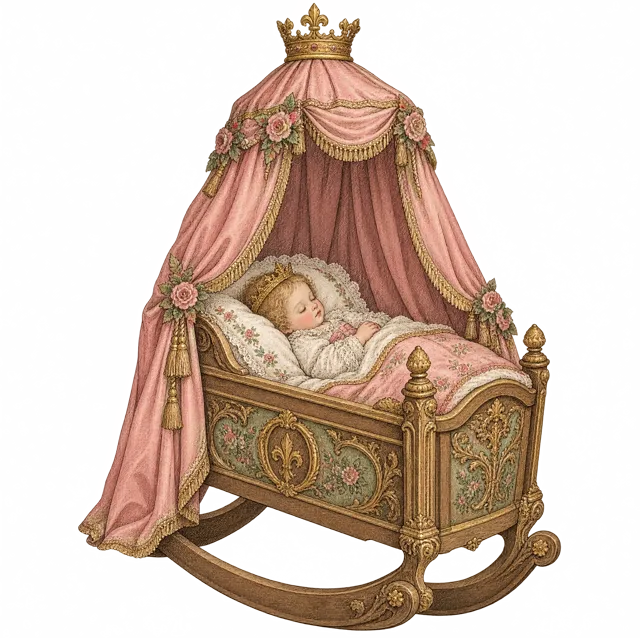
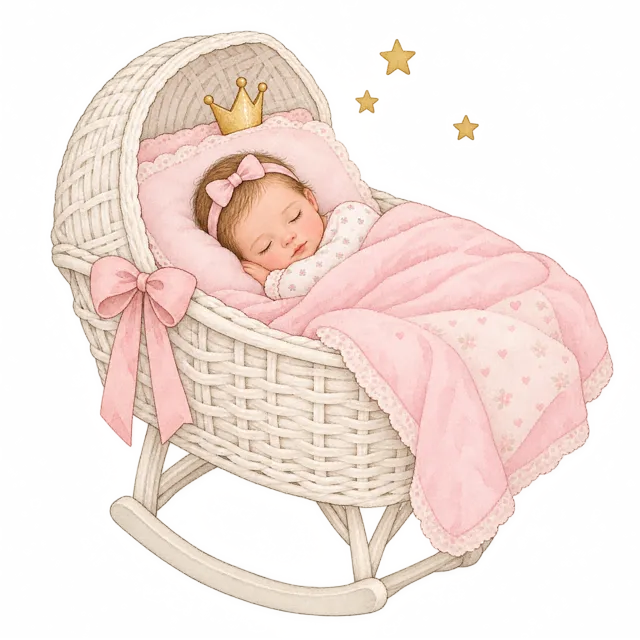
Bila jednom: a happy pastel princess book instead of a royal one
Pink cloth cover with a rose wreath, cream pages with flowers in the
corners, a sunny flower garden behind the book, drifting petals, and the
original pastel illustrations. Pink, beige, white and sage only; the
burgundy leather, dark library and parchment are gone.

diff --git a/src/styles/tale.css b/src/styles/tale.css
@@ -1,141 +1,134 @@
-/* Bila jednom · premium first birthday told as a royal storybook: a leather-bound book whose paper pages bend and turn */
-.tl{--tl-bg:var(--a-tllib);--tl-leather:var(--a-tlleather);--gold:#B58A3E;--gold2:#E7CB86;--wine:#7C1E2D;--ink:#3E2B1E;--rose:#8E3346;position:relative;min-height:100svh;display:flex;flex-direction:column;align-items:center;justify-content:center;gap:14px;padding:66px 0 24px;box-sizing:border-box;overflow:hidden;color:var(--ink);font-family:'Cormorant Garamond',serif;
- background:radial-gradient(60% 46% at 50% 44%,rgba(255,196,120,.22),transparent 70%),radial-gradient(130% 100% at 50% 40%,transparent 40%,rgba(0,0,0,.75)),var(--tl-bg,none) center/cover no-repeat,repeating-linear-gradient(45deg,rgba(255,255,255,.018) 0 2px,transparent 2px 9px),#2A0E14}
+/* Bila jednom · premium first birthday told as a happy princess storybook: a pink cloth book whose paper pages bend and turn */
+.tl{--rose:#C46A7C;--rose2:#E8A9B4;--blush:#F8E3E3;--sage:#7E9A76;--gold:#B8904E;--ink:#5B4636;--cream:#FFFAF1;position:relative;min-height:100svh;display:flex;flex-direction:column;align-items:center;justify-content:center;gap:14px;padding:66px 0 24px;box-sizing:border-box;overflow:hidden;color:var(--ink);font-family:'Cormorant Garamond',serif;
+ background:radial-gradient(70% 50% at 50% 46%,rgba(255,252,246,.55),transparent 75%),var(--a-tlgarden) center/cover no-repeat,#F7EDE8}
 .view:has(> .tl){transform:none!important;animation:none!important;opacity:1!important}
 .tl .vx-top{position:absolute;top:12px;right:12px;z-index:61}
 .tl.pv{min-height:100svh}
-.tl-hi{margin:0 0 6px;font:600 12px 'Cinzel',serif;letter-spacing:.3em;text-transform:uppercase;color:var(--gold2);text-align:center;padding:0 16px;text-shadow:0 2px 8px rgba(0,0,0,.7);transition:opacity .5s ease}
+.tl-hi{margin:0 0 6px;padding:7px 16px;border-radius:999px;background:rgba(255,250,241,.82);font:600 12px 'Cinzel',serif;letter-spacing:.26em;text-transform:uppercase;color:var(--rose);text-align:center;transition:opacity .5s ease}
 .tl.on .tl-hi{opacity:0}
 .tl-sp{position:absolute;inset:0;pointer-events:none}
-.tl-sp i{position:absolute;width:var(--s);aspect-ratio:1;background:radial-gradient(circle,#fff3cf 0 18%,rgba(230,190,110,.55) 34%,transparent 70%);animation:twk var(--t) ease-in-out var(--d) infinite}
+.tl-sp i{position:absolute;width:var(--s);aspect-ratio:1;background:radial-gradient(circle,#fff 0 18%,rgba(255,215,160,.7) 34%,transparent 70%);animation:twk var(--t) ease-in-out var(--d) infinite}
+/* little petals drift down over the garden */
+.tl-sp i:nth-child(3n){width:calc(var(--s) * 1.3);aspect-ratio:1.3;border-radius:60% 0 60% 0;background:linear-gradient(135deg,#FBD3DA,#E8A9B4);opacity:.85;animation:tlPetal calc(var(--t) * 4) linear var(--d) infinite}
+@keyframes tlPetal{from{transform:translate(0,-20vh) rotate(0)}to{transform:translate(8vw,110vh) rotate(540deg)}}
 
 /* ---------- the book ---------- */
 .tl-book{position:relative;flex:none;max-width:100%;translate:var(--sx,0) 0;transition:translate .9s cubic-bezier(.4,0,.2,1);-webkit-tap-highlight-color:transparent}
-.tl.atcov .tl-book{--sx:0px}
 @media (min-width:900px){.tl.atcov .tl-book{--sx:calc(var(--pw) * -.5)}.tl.atend .tl-book{--sx:calc(var(--pw) * .5)}}
 .tl:not(.on) .tl-book{animation:tlIdle 4.6s ease-in-out infinite alternate}
 @keyframes tlIdle{to{transform:translateY(-8px)}}
+.tl-book::before{content:"";position:absolute;left:5%;right:5%;bottom:-2%;height:10%;border-radius:50%;background:rgba(110,70,60,.35);filter:blur(20px);pointer-events:none}
 .tl .stf__wrapper{position:relative;width:100%}
-/* the shadow under the book is its own layer, so turning pages never repaints it */
-.tl-book::before{content:"";position:absolute;left:4%;right:4%;bottom:-2%;height:12%;border-radius:50%;background:rgba(0,0,0,.6);filter:blur(22px);pointer-events:none}
 .tl-p{overflow:hidden;container-type:inline-size;box-sizing:border-box}
-.tl-pp{background:radial-gradient(130% 110% at 50% 50%,transparent 55%,rgba(120,80,30,.28)),radial-gradient(circle at 18% 22%,rgba(150,100,40,.10) 0 2%,transparent 6%),radial-gradient(circle at 82% 74%,rgba(150,100,40,.09) 0 3%,transparent 8%),radial-gradient(circle at 70% 12%,rgba(150,100,40,.07) 0 1.5%,transparent 5%),var(--a-tlparch) center/100% 100%,#F1E3C4}
-/* the gutter: paper darkens toward the spine */
-.tl-pp.rt{box-shadow:inset 18px 0 26px -16px rgba(70,40,15,.5)}
-.tl-pp.lf{box-shadow:inset -18px 0 26px -16px rgba(70,40,15,.5)}
-.tl-pp::after{content:"";position:absolute;inset:0;pointer-events:none;background:linear-gradient(0deg,rgba(255,255,255,.0),rgba(255,248,230,.18))}
+.tl-pp{background:radial-gradient(120% 100% at 50% 45%,transparent 60%,rgba(232,169,180,.16)),var(--a-tlpaper) center/cover,var(--cream)}
+.tl-pp.rt{box-shadow:inset 16px 0 22px -16px rgba(120,80,60,.35)}
+.tl-pp.lf{box-shadow:inset -16px 0 22px -16px rgba(120,80,60,.35)}
 
-/* ---------- the covers: burgundy leather with gold tooling ---------- */
-.tl-cov,.tl-back{background:radial-gradient(90% 70% at 40% 35%,rgba(255,255,255,.10),transparent 60%),radial-gradient(130% 110% at 50% 50%,transparent 55%,rgba(0,0,0,.45)),var(--tl-leather,none) center/cover,repeating-radial-gradient(circle at 30% 40%,rgba(0,0,0,.05) 0 1px,transparent 1px 3px),#6E1826;box-shadow:inset 0 0 0 1px rgba(0,0,0,.4)}
-.tl-cov{border-radius:0 1.6cqw 1.6cqw 0;box-shadow:inset 7px 0 10px -4px rgba(0,0,0,.6),inset 11px 0 0 -9px rgba(231,203,134,.35)}
-.tl-back{border-radius:1.6cqw 0 0 1.6cqw;box-shadow:inset -7px 0 10px -4px rgba(0,0,0,.6)}
-.tl-cvi{position:absolute;inset:0;display:flex;flex-direction:column;align-items:center;justify-content:center;text-align:center;padding:14cqw 12cqw;box-sizing:border-box}
-.tl-cvi::before{content:"";position:absolute;inset:6cqw;border:.7cqw double var(--gold2);border-radius:1cqw;opacity:.85;pointer-events:none}
-.tl-cvi::after{content:"";position:absolute;inset:8.4cqw;border:.25cqw solid rgba(231,203,134,.55);border-radius:.6cqw;pointer-events:none}
-.tl-cvi>svg{width:20cqw;margin-bottom:3cqw;filter:drop-shadow(0 .4cqw .3cqw rgba(0,0,0,.45))}
-.tl-back .tl-cvi>svg{width:14cqw;opacity:.85}
-.tl-gold{background:linear-gradient(170deg,#F8E7B0,#D7AE5E 40%,#9C7130 58%,#EDD08E 78%,#C69A4E);background-size:220% 100%;-webkit-background-clip:text;background-clip:text;color:transparent!important;filter:drop-shadow(0 .35cqw .25cqw rgba(0,0,0,.45))}
-.tl-ct{margin:0;font:400 11cqw/1.02 'Cinzel Decorative',serif}
-.tl-cl{display:block;width:40cqw;margin:2.6cqw 0;color:var(--gold2)}
+/* ---------- the covers: pink cloth with a rose wreath ---------- */
+.tl-cov{background:var(--a-tlcovp) center/100% 100% no-repeat,#EDBFC3;border-radius:0 1.6cqw 1.6cqw 0;box-shadow:inset 6px 0 9px -4px rgba(120,60,60,.35),inset 10px 0 0 -8px rgba(255,255,255,.5)}
+.tl-back{background:var(--a-tlbackp) center/100% 100% no-repeat,#EDBFC3;border-radius:1.6cqw 0 0 1.6cqw;box-shadow:inset -6px 0 9px -4px rgba(120,60,60,.35)}
+.tl-cvi{position:absolute;left:50%;top:50%;translate:-50% -50%;width:50cqw;display:flex;flex-direction:column;align-items:center;text-align:center}
+.tl-gold{background:linear-gradient(170deg,#E9C98A,#C69A56 45%,#A97E3E 62%,#DDB876);background-size:220% 100%;-webkit-background-clip:text;background-clip:text;color:transparent!important}
+.tl-ct{margin:0;font:400 7.6cqw/1.05 'Cinzel Decorative',serif;color:var(--rose)}
+.tl-cl{display:block;width:30cqw;margin:2cqw 0;color:var(--gold)}
 .tl-cl svg{display:block;width:100%}
-.tl-cs{margin:0;font:400 8.4cqw/1.1 'Pinyon Script',cursive;color:#F4E2C2;text-shadow:0 .4cqw .8cqw rgba(0,0,0,.5)}
-.tl-cn{margin:4cqw 0 0;font:700 10.5cqw/1.05 'Cinzel Decorative',serif}
-.tl-cb{margin:5cqw 0 0;font:600 3cqw/1.3 'Cinzel',serif;letter-spacing:.24em;text-transform:uppercase;color:#E9D3A4}
+.tl-cs{margin:0;font:400 6.4cqw/1.1 'Great Vibes',cursive;color:var(--sage)}
+.tl-cn{margin:2.4cqw 0 0;font:400 12cqw/1 'Great Vibes',cursive;color:var(--rose)}
+.tl-cb{max-width:24cqw;margin:2.6cqw 0 0;font:600 2.2cqw/1.45 'Cinzel',serif;letter-spacing:.12em;text-transform:uppercase;color:#9C8464}
 .tl:not(.on) .tl-cov .tl-gold{animation:tlFoil 4s ease-in-out infinite}
 @keyframes tlFoil{50%{background-position:100% 0}}
 
-/* ---------- endpaper ---------- */
-/* the inside cover matches the invitation card: cream paper, a rose wreath with a pink bow, and the owner's name inside */
-.tl-endp{background:var(--a-tlwreath) center/100% 100% no-repeat,#FBF5E8;box-shadow:inset -18px 0 26px -16px rgba(90,60,30,.35)}
+/* ---------- inside cover: the rose wreath with the owner's name ---------- */
+.tl-endp{background:var(--a-tlwreath) center/100% 100% no-repeat,#FBF5E8;box-shadow:inset -16px 0 22px -16px rgba(120,80,60,.3)}
 .tl-plate{position:absolute;left:50%;top:51%;translate:-50% -50%;width:44cqw;text-align:center}
-.tl-plate small{display:block;font:600 2.9cqw/1.4 'Cinzel',serif;letter-spacing:.2em;text-transform:uppercase;color:#A8803F}
-.tl-plate b{display:block;margin:2.4cqw 0 1.6cqw;font:400 11.5cqw/1.05 'Pinyon Script',cursive;color:#9A4A58}
-.tl-plate span{display:block;width:26cqw;margin:0 auto;color:#B88A4A}
+.tl-plate small{display:block;font:600 2.9cqw/1.4 'Cinzel',serif;letter-spacing:.2em;text-transform:uppercase;color:var(--gold)}
+.tl-plate b{display:block;margin:2.4cqw 0 1.6cqw;font:400 11.5cqw/1.05 'Great Vibes',cursive;color:var(--rose)}
+.tl-plate span{display:block;width:26cqw;margin:0 auto;color:var(--gold)}
 
-/* ---------- gold frame with corner flourishes ---------- */
-.tl-fr{position:absolute;inset:4.2cqw;border:.25cqw solid rgba(181,138,62,.7);pointer-events:none;color:var(--gold)}
-.tl-fr::before{content:"";position:absolute;inset:1.3cqw;border:.12cqw solid rgba(181,138,62,.5)}
-.tl-fr i{position:absolute;width:13cqw;height:13cqw}
-.tl-fr i svg{display:block;width:100%;height:100%}
-.tl-fr .c0{left:-1.4cqw;top:-1.4cqw}.tl-fr .c1{right:-1.4cqw;top:-1.4cqw;transform:scaleX(-1)}.tl-fr .c2{left:-1.4cqw;bottom:-1.4cqw;transform:scaleY(-1)}.tl-fr .c3{right:-1.4cqw;bottom:-1.4cqw;transform:scale(-1)}
+/* ---------- page frame with flowers in the corners ---------- */
+.tl-fr{position:absolute;inset:4.4cqw;border:.22cqw solid rgba(196,106,124,.38);border-radius:2cqw;pointer-events:none}
+.tl-fr::before{content:"";position:absolute;inset:1.2cqw;border:.12cqw solid rgba(126,154,118,.35);border-radius:1.4cqw}
+.tl-fr i{position:absolute;width:24cqw;height:24cqw;background:var(--a-tlflor) 0 0/contain no-repeat}
+.tl-fr i svg{display:none}
+.tl-fr .c0{left:-3cqw;top:-3cqw}.tl-fr .c1{right:-3cqw;top:-3cqw;transform:scaleX(-1)}.tl-fr .c2{left:-3cqw;bottom:-3cqw;transform:scaleY(-1)}.tl-fr .c3{right:-3cqw;bottom:-3cqw;transform:scale(-1)}
 
 /* ---------- inside pages ---------- */
-.tl-pg{position:absolute;inset:0;display:flex;flex-direction:column;align-items:center;justify-content:center;gap:1.6cqw;padding:12cqw 12cqw 14cqw;box-sizing:border-box;text-align:center;overflow-y:auto;overscroll-behavior:contain;scrollbar-width:none}
+.tl-pg{position:absolute;inset:0;display:flex;flex-direction:column;align-items:center;justify-content:center;gap:1.6cqw;padding:13cqw 12cqw 14cqw;box-sizing:border-box;text-align:center;overflow-y:auto;overscroll-behavior:contain;scrollbar-width:none}
 .tl-pg::-webkit-scrollbar{display:none}
-.tl-lab{display:flex;align-items:center;gap:2.6cqw;margin:0;font:600 3.1cqw/1.2 'Cinzel',serif;letter-spacing:.2em;text-transform:uppercase;color:var(--gold)}
-.tl-lab::before,.tl-lab::after{content:"❦";font-size:3.4cqw;letter-spacing:0;color:var(--wine);opacity:.7}
-.tl-lab::before{transform:scaleX(-1)}
-/* the pictures are printed onto the old paper */
-.tl-art{display:block;flex:none;width:56cqw;aspect-ratio:1;background:var(--i) center/contain no-repeat;filter:sepia(.12) saturate(.92)}
+.tl-lab{display:flex;align-items:center;gap:2.4cqw;margin:0;font:600 3.1cqw/1.2 'Cinzel',serif;letter-spacing:.2em;text-transform:uppercase;color:var(--gold)}
+.tl-lab::before,.tl-lab::after{content:"✿";font-size:3.4cqw;letter-spacing:0;color:var(--rose2)}
+.tl-art{display:block;flex:none;width:54cqw;aspect-ratio:1;background:var(--i) center/contain no-repeat}
 .tl-art.sm{width:44cqw}.tl-art.wide{width:66cqw;aspect-ratio:4/3}
-.tl-ph{flex:none;margin:1cqw 0;width:48cqw;aspect-ratio:.8;border-radius:50%;overflow:hidden;border:1.4cqw solid #F6EBD2;box-shadow:0 0 0 .55cqw var(--gold),0 0 0 1.3cqw #F6EBD2,0 0 0 1.6cqw rgba(181,138,62,.6),0 3cqw 5cqw -2cqw rgba(70,40,15,.5)}
-.tl-ph img{width:100%;height:100%;object-fit:cover;display:block;filter:sepia(.3) contrast(1.05)}
-.tl-h{margin:0;font:400 10.6cqw/1.1 'Pinyon Script',cursive;color:var(--wine)}
+.tl-ph{flex:none;margin:1cqw 0;width:48cqw;aspect-ratio:.8;border-radius:50%;overflow:hidden;border:1.4cqw solid #fff;box-shadow:0 0 0 .5cqw var(--rose2),0 0 0 1.2cqw #fff,0 0 0 1.45cqw rgba(126,154,118,.55),0 3cqw 5cqw -2cqw rgba(120,80,60,.35)}
+.tl-ph img{width:100%;height:100%;object-fit:cover;display:block}
+.tl-h{margin:0;font:400 10.6cqw/1.1 'Great Vibes',cursive;color:var(--rose)}
 .tl-tx{margin:0;font:italic 500 5.2cqw/1.45 'Cormorant Garamond',serif;color:var(--ink)}
-.tl-tx b{font-style:normal;font-weight:700;color:var(--wine)}
-/* an illuminated first letter, like in old manuscripts */
+.tl-tx b{font-style:normal;font-weight:700;color:var(--rose)}
+/* a big flowery first letter */
 .tl-dc{text-align:left}
-.tl-dc::first-letter{float:left;margin:1cqw 2.4cqw 0 0;padding:1.6cqw 2.2cqw 1cqw;font:400 12cqw/.82 'Cinzel Decorative',serif;font-style:normal;color:#F6E3A6;background:radial-gradient(circle at 30% 30%,#A23347,#6A1626);border:.5cqw solid var(--gold);outline:.2cqw solid var(--gold2);outline-offset:-1.3cqw;text-shadow:0 .3cqw .3cqw rgba(0,0,0,.4)}
-.tl-born{display:flex;flex-direction:column;gap:1cqw;margin-top:2cqw;padding:3cqw 7cqw;border:.3cqw solid rgba(181,138,62,.75);outline:.15cqw solid rgba(181,138,62,.5);outline-offset:-1.2cqw;background:rgba(255,250,236,.45)}
-.tl-born small{font:600 2.8cqw/1.2 'Cinzel',serif;letter-spacing:.18em;text-transform:uppercase;color:var(--gold)}
+.tl-dc::first-letter{float:left;margin:.6cqw 2.4cqw 0 0;padding:2cqw 2.4cqw 1.2cqw;font:400 11cqw/.82 'Cinzel Decorative',serif;font-style:normal;color:var(--rose);background:radial-gradient(circle,#FFF 30%,#FBE3E6 70%);border:.35cqw solid var(--rose2);border-radius:2cqw}
+.tl-born{display:flex;flex-direction:column;gap:1cqw;margin-top:2cqw;padding:3cqw 7cqw;border-radius:6cqw;border:.3cqw solid var(--rose2);background:rgba(255,255,255,.65)}
+.tl-born small{font:600 2.8cqw/1.2 'Cinzel',serif;letter-spacing:.18em;text-transform:uppercase;color:var(--sage)}
 .tl-born b{font:600 4.8cqw/1.2 'Cormorant Garamond',serif;color:var(--ink)}
-.tl-no{position:absolute;left:0;right:0;bottom:6.2cqw;display:flex;justify-content:center;align-items:center;gap:2cqw;font:600 3cqw/1 'Cinzel',serif;color:var(--gold)}
-.tl-no::before,.tl-no::after{content:"";width:5cqw;height:.18cqw;background:currentColor;opacity:.55}
+.tl-no{position:absolute;left:0;right:0;bottom:6.2cqw;display:flex;justify-content:center;align-items:center;gap:2cqw;font:600 3cqw/1 'Cinzel',serif;color:var(--rose)}
+.tl-no::before,.tl-no::after{content:"";width:5cqw;height:.18cqw;background:var(--rose2)}
 .tl-when{display:flex;flex-direction:column;align-items:center;gap:.6cqw;margin-top:1cqw}
-.tl-when small{font:600 3.1cqw/1.2 'Cinzel',serif;letter-spacing:.2em;text-transform:uppercase;color:var(--gold)}
-.tl-when b{font:400 6.6cqw/1.1 'Cinzel Decorative',serif;color:var(--wine)}
+.tl-when small{font:600 3.1cqw/1.2 'Cinzel',serif;letter-spacing:.2em;text-transform:uppercase;color:var(--sage)}
+.tl-when b{font:400 6.6cqw/1.1 'Cinzel Decorative',serif;color:var(--rose)}
 .tl-when span{font:italic 500 5cqw/1.2 'Cormorant Garamond',serif}
 .tl-where{margin:1.4cqw 0 0;font:600 5cqw/1.25 'Cormorant Garamond',serif}
 .tl-where small{display:block;font:italic 500 4.2cqw/1.3 'Cormorant Garamond',serif;opacity:.85}
 .tl-acts{display:flex;gap:2.4cqw;flex-wrap:wrap;justify-content:center;margin-top:2cqw}
-.tl-btn{display:inline-flex;align-items:center;padding:2.4cqw 4.6cqw;background:var(--wine);color:#F6E3A6!important;text-decoration:none!important;font:600 3.2cqw/1 'Cinzel',serif;letter-spacing:.1em;border:.3cqw solid var(--gold);box-shadow:0 2cqw 3cqw -1.6cqw rgba(60,20,20,.6)}
-.tl-btn.ghost{background:transparent;color:var(--wine)!important}
+.tl-btn{display:inline-flex;align-items:center;padding:2.6cqw 5cqw;border-radius:999px;background:var(--rose);color:#fff!important;text-decoration:none!important;font:600 3.6cqw/1 'Cormorant Garamond',serif;letter-spacing:.06em;box-shadow:0 2cqw 3cqw -1.6cqw rgba(196,106,124,.7)}
+.tl-btn.ghost{background:#fff;color:var(--sage)!important;border:.3cqw solid var(--sage);box-shadow:none}
 .tl-count{display:flex;gap:2cqw;margin-top:1cqw}
-.tl-count div{display:flex;flex-direction:column;align-items:center;width:14.6cqw;padding:2.6cqw 0 2cqw;background:rgba(255,250,236,.6);border:.3cqw solid var(--gold);outline:.15cqw solid rgba(181,138,62,.5);outline-offset:-1cqw}
-.tl-count b{font:400 6.2cqw/1 'Cinzel Decorative',serif;color:var(--wine)}
-.tl-count span{margin-top:1cqw;font:600 2.3cqw/1 'Cinzel',serif;letter-spacing:.1em;color:var(--gold)}
+.tl-count div{display:flex;flex-direction:column;align-items:center;width:14.6cqw;padding:2.6cqw 0 2cqw;border-radius:50% 50% 14% 14%/40% 40% 14% 14%;background:#fff;border:.3cqw solid var(--rose2)}
+.tl-count b{font:400 6.2cqw/1 'Cinzel Decorative',serif;color:var(--rose)}
+.tl-count span{margin-top:1cqw;font:600 2.3cqw/1 'Cinzel',serif;letter-spacing:.1em;color:var(--sage)}
 .tl-end{margin:1cqw 0 0;font:400 13cqw/1 'Cinzel Decorative',serif}
-.tl-sig{margin:0;font:400 8cqw/1.1 'Pinyon Script',cursive;color:var(--wine)}
+.tl-sig{margin:0;font:400 8cqw/1.1 'Great Vibes',cursive;color:var(--rose)}
 .tl-by{margin:2cqw 0 0;font:500 3.1cqw/1.3 'Cormorant Garamond',serif;opacity:.75}
-.tl-by a{color:var(--wine)}
+.tl-by a{color:var(--rose)}
 /* the left-hand verse pages */
 .tl-q{position:absolute;inset:0;display:flex;flex-direction:column;align-items:center;justify-content:center;gap:5cqw;padding:18cqw;box-sizing:border-box;text-align:center;color:var(--gold)}
 .tl-q svg{width:36cqw}
-.tl-q p{margin:0;font:400 9cqw/1.3 'Pinyon Script',cursive;color:var(--wine)}
+.tl-q p{margin:0;font:400 9cqw/1.3 'Great Vibes',cursive;color:var(--rose)}
 /* the reply form, written into the book */
-.tl-pg.rs{justify-content:flex-start;padding-top:11cqw}
+.tl-pg.rs{justify-content:flex-start;padding-top:12cqw}
 .tl-pg.rs .tl-art.wide{width:46cqw}
 .tl .tl-rsvp{width:100%;padding:0;background:none;border:0;box-shadow:none;text-align:left;font-size:max(14px,3.7cqw)}
-.tl .tl-rsvp .kicker{display:block;text-align:center;color:var(--gold);font-family:'Cinzel',serif;letter-spacing:.2em}
-.tl .tl-rsvp h2{text-align:center;margin:.3em 0 .2em!important;font-family:'Pinyon Script',cursive!important;font-weight:400!important;font-size:max(30px,9.6cqw)!important;line-height:1.1!important;color:var(--wine)}
+.tl .tl-rsvp .kicker{display:block;text-align:center;color:var(--sage);font-family:'Cinzel',serif;letter-spacing:.2em}
+.tl .tl-rsvp h2{text-align:center;margin:.3em 0 .2em!important;font-family:'Great Vibes',cursive!important;font-weight:400!important;font-size:max(30px,9.6cqw)!important;line-height:1.1!important;color:var(--rose)}
 .tl .tl-rsvp .sub{display:block;text-align:center;color:var(--ink);opacity:.8}
 .tl .tl-rsvp .form{gap:10px}
-.tl .tl-rsvp :is(input,textarea){background:rgba(255,251,240,.75);border-color:rgba(181,138,62,.6);border-radius:2px}
+.tl .tl-rsvp :is(input,textarea){background:#fff;border-color:var(--rose2);border-radius:12px}
 .tl .tl-rsvp textarea{min-height:60px}
-.tl .tl-rsvp .choice button{border-radius:2px;border-color:rgba(181,138,62,.6);background:rgba(255,251,240,.7)}
-.tl .tl-rsvp .choice button.on,.tl .tl-rsvp .choice button.on.y{background:var(--wine);border-color:var(--gold);color:#F6E3A6}
-.tl .tl-rsvp .btn,.tl .tl-rsvp button[type=submit]{background:var(--wine)!important;color:#F6E3A6!important;border-radius:2px!important;border:1px solid var(--gold)!important}
+.tl .tl-rsvp .choice button{border-radius:999px;border-color:var(--rose2);background:#fff}
+.tl .tl-rsvp .choice button.on,.tl .tl-rsvp .choice button.on.y{background:var(--rose);border-color:var(--rose);color:#fff}
+.tl .tl-rsvp .btn,.tl .tl-rsvp button[type=submit]{background:var(--rose)!important;color:#fff!important;border-radius:999px!important}
 .tl .tl-rsvp .thanks{text-align:center}
+.tl .tl-rsvp .vx-stamp{font-family:'Cinzel',serif!important;color:var(--rose)!important;border-color:var(--rose)!important;letter-spacing:.16em}
+.tl .tl-rsvp .thanks .big{font-family:'Great Vibes',cursive;font-size:max(30px,9cqw);color:var(--rose)}
 .tl-pg.rs~.tl-no{display:none}
-
-/* the illustration on the open page breathes gently (no fading, so a turned page is never blank) */
+/* the illustration on the open page breathes gently */
 .tl-p.seen .tl-art{animation:tlBob 5s ease-in-out .4s infinite alternate}
 @keyframes tlBob{to{transform:translateY(-1.2cqw)}}
 
 /* ---------- under the book ---------- */
 .tl-nav{display:flex;align-items:center;gap:18px;opacity:0;transition:opacity .6s ease .6s}
 .tl.on .tl-nav{opacity:1}
-.tl-nav button{width:46px;height:46px;border-radius:50%;border:1.5px solid var(--gold);background:radial-gradient(circle at 35% 30%,#8E2A3B,#5A1220);color:var(--gold2);font:400 30px/1 'Cormorant Garamond',serif;cursor:pointer;box-shadow:0 8px 16px -8px rgba(0,0,0,.7)}
+.tl-nav button{width:46px;height:46px;border-radius:50%;border:2px solid #fff;background:var(--rose);color:#fff;font:400 30px/1 'Cormorant Garamond',serif;cursor:pointer;box-shadow:0 8px 16px -8px rgba(196,106,124,.8)}
 .tl-nav button:disabled{opacity:.35;cursor:default}
-.tl-pgn{min-width:40px;text-align:center;font:600 15px 'Cinzel',serif;letter-spacing:.14em;color:var(--gold2)}
-.tl-tip{margin:0;padding:0 16px;text-align:center;font:400 clamp(24px,6.4vw,30px)/1.2 'Pinyon Script',cursive;color:var(--gold2);text-shadow:0 2px 8px rgba(0,0,0,.6);animation:pqPulse 2.8s ease-in-out 1.6s infinite}
-.tl.on .tl-tip{font-size:clamp(19px,4.8vw,23px);animation:none;opacity:.8}
-.tl-music{position:fixed;left:14px;right:auto;bottom:14px;z-index:40;display:inline-flex!important;align-items:center;gap:8px;padding:10px 16px;border-radius:999px;border:1.5px solid var(--gold);background:rgba(60,14,22,.9);color:var(--gold2);font:600 12px 'Cinzel',serif;letter-spacing:.14em;text-transform:uppercase;cursor:pointer}
-.tl-music .d{width:10px;height:10px;border-radius:50%;background:var(--gold2)}
+.tl-pgn{min-width:40px;padding:4px 10px;border-radius:999px;background:rgba(255,250,241,.85);text-align:center;font:600 15px 'Cinzel',serif;letter-spacing:.14em;color:var(--rose)}
+.tl-pgn:empty{display:none}
+.tl-tip{margin:0;padding:4px 18px;border-radius:999px;background:rgba(255,250,241,.82);text-align:center;font:400 clamp(24px,6.4vw,30px)/1.2 'Great Vibes',cursive;color:var(--rose);animation:pqPulse 2.8s ease-in-out 1.6s infinite}
+.tl.on .tl-tip{font-size:clamp(19px,4.8vw,23px);animation:none}
+.tl-music{position:fixed;left:14px;right:auto;bottom:14px;z-index:40;display:inline-flex!important;align-items:center;gap:8px;padding:10px 16px;border-radius:999px;border:1.5px solid var(--rose2);background:rgba(255,250,241,.95);color:var(--rose);font:600 12px 'Cinzel',serif;letter-spacing:.14em;text-transform:uppercase;cursor:pointer}
+.tl-music .d{width:10px;height:10px;border-radius:50%;background:var(--rose)}
 .tl.playing .tl-music .d{animation:bwBeat 1s ease-in-out infinite}
 .tl:not(.on) .tl-music{display:none!important}
 .tl.pv .tl-music{position:absolute;top:14px;bottom:auto}
-@media (prefers-reduced-motion:reduce){.tl-book,.tl-tip,.tl-p *{animation:none!important}}
+@media (prefers-reduced-motion:reduce){.tl-book,.tl-tip,.tl-p *,.tl-sp i{animation:none!important}}
 
 /* ---------- the gallery card: a storybook title page ---------- */
 .tid-p_tale .inv-body{color:#5B4636}
@@ -165,5 +158,3 @@
 .tid-p_tale.animate .tc-t :is(span,b){background-size:240% 100%;animation:tcFoil 4s ease-in-out 1.6s infinite}
 @keyframes tcRib{from{opacity:0;transform:scaleX(.2)}to{opacity:1;transform:none}}
 @keyframes tcFoil{50%{background-position:100% 0}}
-.tl .tl-rsvp .vx-stamp{font-family:'Cinzel',serif!important;color:var(--wine)!important;border-color:var(--wine)!important;letter-spacing:.16em}
-.tl .tl-rsvp .thanks .big{font-family:'Pinyon Script',cursive;font-size:max(30px,9cqw);color:var(--wine)}

diff --git a/src/main.js b/src/main.js
@@ -1744,10 +1744,9 @@ function bindDino(root,t,d,o={}){
  if(o.opened){done=true;root.dataset.crack=3;root.classList.add("hatched");show()}
 }
 
-/* ---------- Bila jednom: a royal storybook whose pages bend and turn like real paper ---------- */
+/* ---------- Bila jednom: a happy princess storybook whose pages bend and turn like real paper ---------- */
 // a gold corner flourish for the page frames (turned for each corner)
 const TL_CRN=`<svg viewBox="0 0 60 60" fill="none" stroke="currentColor" stroke-width="1.2" stroke-linecap="round" aria-hidden="true"><path d="M3 57V14Q3 3 14 3H57"/><path d="M9 57V18Q9 9 18 9H57" stroke-width=".7"/><path d="M14 22c0-6 4-8 8-8M22 14c-1 5 1 8 5 8 3 0 4-3 2-5"/><circle cx="15" cy="15" r="2.2" fill="currentColor"/><path d="M27 6c5 3 9 3 14 0M6 27c3 5 3 9 0 14" stroke-width=".8"/></svg>`;
-const TL_CREST=`<svg viewBox="0 0 80 64" aria-hidden="true"><path d="M14 50 8 18l16 13L40 6l16 25 16-13-6 32z" fill="url(#tlg)" stroke="#7A5420" stroke-width="1.3" stroke-linejoin="round"/><rect x="13" y="49" width="54" height="7" rx="2" fill="url(#tlg)" stroke="#7A5420" stroke-width="1.2"/><circle cx="40" cy="22" r="3.4" fill="#8E2233"/><circle cx="24" cy="34" r="2.6" fill="#8E2233"/><circle cx="56" cy="34" r="2.6" fill="#8E2233"/><circle cx="40" cy="52.5" r="2" fill="#F4E6C4"/><defs><linearGradient id="tlg" x1="0" y1="0" x2="1" y2="1"><stop offset="0" stop-color="#F6E3A6"/><stop offset=".45" stop-color="#C9993F"/><stop offset=".7" stop-color="#8F6527"/><stop offset="1" stop-color="#E6C47A"/></linearGradient></defs></svg>`;
 function taleHTML(t,d,o={}){
  const cl=d.lang||LANG,C=(en,sr)=>cl==="sr"?sr:en;const v=k=>(d[k]??"").toString().trim();
  const dt=pd(v("date"),cl),rsH=pd(v("rsvpBy"),cl),bd=pd(v("birthDate"),cl);const nm=esc(v("childName"));
@@ -1766,20 +1765,20 @@ function taleHTML(t,d,o={}){
  const verse=(i,h)=>P.push(`<div class="tl-p tl-pp tl-vs" data-id="v${i}" data-land="1">${frame}<div class="tl-q">${TL_ORN}${h}${TL_ORN}</div></div>`);
  const Q=[C("In a faraway kingdom, where roses bloom all year round…","U jednom dalekom kraljevstvu, gde ruže cvetaju cele godine…"),C("Every fairy tale begins with a smile.","Svaka bajka počinje jednim osmehom."),C("Little things make the greatest wonders.","Male stvari čine najveća čuda."),C("Step by step, all the way to the stars.","Korak po korak, sve do zvezda."),C("Love is the strongest magic.","Ljubav je najjača čarolija."),C("And so the kingdom made ready for a ball…","I tako se kraljevstvo spremilo za bal…"),C("Make a wish and blow out the candle.","Zamisli želju i duni u svećicu."),C("There is a seat for you at this ball.","Na ovom balu čeka i vaše mesto."),C("Good night, little princess.","Laku noć, mala princezo.")];
  let vi=0;const nextVerse=()=>verse(vi,`<p>${Q[vi++%Q.length]}</p>`);
- P.push(`<div class="tl-p tl-cov" data-id="cover" data-density="hard"><div class="tl-cvi">${TL_CREST}<p class="tl-ct tl-gold">${C("Once upon a time","Bila jednom")}</p><span class="tl-cl" aria-hidden="true">${TL_ORN}</span><p class="tl-cs">${C("there was a little princess","jedna mala princeza")}</p>${nm?`<p class="tl-cn tl-gold">${nm}</p>`:""}<p class="tl-cb">${C("A royal tale of the first year","Kraljevska bajka o prvoj godini")}</p></div></div>`);
+ P.push(`<div class="tl-p tl-cov" data-id="cover" data-density="hard"><div class="tl-cvi"><p class="tl-ct tl-gold">${C("Once upon a time","Bila jednom")}</p><span class="tl-cl" aria-hidden="true">${TL_ORN}</span><p class="tl-cs">${C("there was a little princess","jedna mala princeza")}</p>${nm?`<p class="tl-cn tl-gold">${nm}</p>`:""}<p class="tl-cb">${C("A fairy tale of the first year","Bajka o prvoj godini")}</p></div></div>`);
  P.push(`<div class="tl-p tl-endp" data-id="endp"><div class="tl-plate"><small>${C("This book belongs to","Ova knjiga pripada")}</small><b>${nm||"♥"}</b><span aria-hidden="true">${TL_ORN}</span></div></div>`);
  page("born",`${art("crib")}<p class="tl-lab">${C("Once upon a time","Bila jednom")}</p><p class="tl-tx tl-dc">${C(`In a kingdom full of love there lived a little princess called <b>${nm}</b>.`,`U jednom kraljevstvu punom ljubavi živela je mala princeza po imenu <b>${nm}</b>.`)}</p>${bd||stats?`<div class="tl-born">${bd?`<small>${C("Born","Rođena")}</small><b>${day(bd)}${v("birthTime")?` · ${esc(v("birthTime"))}`:""}</b>`:""}${stats?`<b>${esc(stats)}</b>`:""}</div>`:""}`);
  ch.forEach((s,i)=>{nextVerse();page("ch"+i,`${s.y?`<p class="tl-lab">${esc(s.y)}</p>`:""}${s.p?`<figure class="tl-ph"><img src="${esc(s.p)}" alt=""></figure>`:art(s.a)}${s.t?`<h3 class="tl-h">${esc(s.t)}</h3>`:""}${s.x?`<p class="tl-tx">${esc(s.x)}</p>`:""}`)});
- nextVerse();page("ball",`${art("castle","sm")}<p class="tl-lab">${C("The royal ball","Kraljevski bal")}</p>${v("message")?`<p class="tl-tx">${br(v("message"))}</p>`:""}${dt?`<div class="tl-when"><small>${esc(dt.wd)}</small><b>${day(dt)}</b>${v("time")?`<span>${C("at","u")} ${esc(v("time"))}${cl==="sr"?" h":""}</span>`:""}</div>`:""}${v("venue")||v("address")?`<p class="tl-where">${esc(v("venue"))}${v("address")?`<small>${esc(v("address"))}</small>`:""}</p>`:""}<div class="tl-acts">${gcal?`<a class="tl-btn" href="${gcal}" target="_blank" rel="noopener">${C("Add to calendar","Dodajte u kalendar")}</a>`:""}${maps?`<a class="tl-btn ghost" href="${maps}" target="_blank" rel="noopener">${C("Map","Mapa")}</a>`:""}</div>`);
+ nextVerse();page("ball",`${art("castle","sm")}<p class="tl-lab">${C("The birthday ball","Rođendanski bal")}</p>${v("message")?`<p class="tl-tx">${br(v("message"))}</p>`:""}${dt?`<div class="tl-when"><small>${esc(dt.wd)}</small><b>${day(dt)}</b>${v("time")?`<span>${C("at","u")} ${esc(v("time"))}${cl==="sr"?" h":""}</span>`:""}</div>`:""}${v("venue")||v("address")?`<p class="tl-where">${esc(v("venue"))}${v("address")?`<small>${esc(v("address"))}</small>`:""}</p>`:""}<div class="tl-acts">${gcal?`<a class="tl-btn" href="${gcal}" target="_blank" rel="noopener">${C("Add to calendar","Dodajte u kalendar")}</a>`:""}${maps?`<a class="tl-btn ghost" href="${maps}" target="_blank" rel="noopener">${C("Map","Mapa")}</a>`:""}</div>`);
  if(w&&w>Date.now()){nextVerse();page("count",`${art("cake")}<p class="tl-lab">${C("Until the ball","Do bala je ostalo")}</p><div class="tl-count" data-w="${w.getTime()}"></div><p class="tl-tx">${C("Every good fairy tale has a cake, and this one has you too!","Svaka dobra bajka ima tortu, a ova ima i vas!")}</p>`)}
  nextVerse();page("rsvp",`${art("friends","wide")}${o.preview?`<div class="rsvp tl-rsvp"><p class="kicker">${C("RSVP","Potvrda dolaska")}</p><h2>${C("Will you come to the ball?","Da li dolazite na bal?")}</h2>${rsH?`<p class="sub">${C(`Please reply by ${rsH.short}`,`Molimo odgovorite do ${rsH.short}`)}</p>`:""}<p class="note-box" style="text-align:center">${L("This is a preview. Your guests will see the reply form here.","Ovo je pregled. Ovde će vaši gosti videti formular za odgovor.")}</p></div>`:`<div class="rsvp tl-rsvp" id="rsvp"></div>`}`,"rs");
  nextVerse();page("end",`${art("moon")}<p class="tl-tx">${C("…and they lived happily ever after, and the most beautiful pages of this story are still to be written.","…i živeli su srećno i veselo, a najlepše stranice ove bajke tek će biti napisane.")}</p><p class="tl-end tl-gold">${C("The End","Kraj")}</p>${v("hosts")?`<p class="tl-sig">${esc(v("hosts"))}</p>`:""}${o.preview?"":`<p class="tl-by">${L("Sent with","Poslato preko")} <a href="${API.kind==="local"?"#":"/"}">Poziv na klik</a></p>`}`);
- P.push(`<div class="tl-p tl-back" data-id="back" data-density="hard"><div class="tl-cvi">${TL_CREST}</div></div>`);
+ P.push(`<div class="tl-p tl-back" data-id="back" data-density="hard"></div>`);
  const sp=Array.from({length:18},(_,i)=>`<i style="left:${(i*6.3+4)%96}%;top:${(i*37+11)%92}%;--s:${6+(i*5)%9}px;--t:${(2.6+(i%5)*.6).toFixed(1)}s;--d:${(-(i*.7)%3).toFixed(1)}s"></i>`).join("");
  return`<div class="tl${o.preview?" pv":""}" lang="${cl==="sr"?"sr-Latn":"en"}">
  <div class="tl-sp" aria-hidden="true">${sp}</div>
  ${o.preview?"":`<div class="vx-top">${langSwitch()}</div>`}
- <p class="tl-hi">${who?`${C("For","Za")} ${who}`:C("A royal fairy tale has arrived for you","Stigla vam je kraljevska bajka")}</p>
+ <p class="tl-hi">${who?`${C("For","Za")} ${who}`:C("A fairy tale has arrived for you","Stigla vam je jedna bajka")}</p>
  <div class="tl-book" role="group" aria-roledescription="${C("book","knjiga")}" aria-label="${esc(titleOf(t,d))}"></div>
  <div class="tl-park" hidden>${P.join("")}</div>
  <div class="tl-nav"><button class="tl-prev" type="button" aria-label="${C("Previous page","Prethodna strana")}">‹</button><span class="tl-pgn" aria-live="polite"></span><button class="tl-next" type="button" aria-label="${C("Next page","Sledeća strana")}">›</button></div>
@@ -1830,7 +1829,7 @@ function bindTale(root,t,d,o={}){
  const obs=new MutationObserver(()=>{if(!root.isConnected){document.removeEventListener("keydown",key);removeEventListener("resize",rs);try{pf&&pf.destroy()}catch(e){}obs.disconnect()}});obs.observe(document.body,{childList:true,subtree:true});
  let ticking=false;function count(){const el=$(".tl-count",root);if(!el||ticking)return;ticking=true;const w=+el.dataset.w;const tick=()=>{if(!el.isConnected)return;const ms=w-Date.now();if(ms<=0){el.innerHTML="";return}const a=[[Math.floor(ms/864e5),C("Days","Dana")],[Math.floor(ms/36e5)%24,C("Hours","Sati")],[Math.floor(ms/6e4)%60,C("Min","Min")],[Math.floor(ms/1e3)%60,C("Sec","Sek")]];el.innerHTML=a.map(([n,l])=>`<div><b>${String(n).padStart(2,"0")}</b><span>${l}</span></div>`).join("");setTimeout(tick,1000)};tick()}
  // decode every picture up front, so the first turn onto a new page never stutters
- const cs=getComputedStyle(document.documentElement);TL_IMGS=["tlparch","tlleather","tlwreath","tllib","tlcrib","tlsmile","tlberry","tlsteps","tlballoon","tlcastle","tlcake","tlfriends","tlmoon"].map(k=>{const m=/url\(["']?([^"')]+)/.exec(cs.getPropertyValue("--a-"+k));if(!m)return null;const im=new Image();im.src=m[1];im.decode&&im.decode().catch(()=>{});return im}).concat($$("img",park).map(x=>{x.decode&&x.decode().catch(()=>{});return x}));
+ const cs=getComputedStyle(document.documentElement);TL_IMGS=["tlpaper","tlcovp","tlbackp","tlwreath","tlgarden","tlflor","tlcrib","tlsmile","tlberry","tlsteps","tlballoon","tlcastle","tlcake","tlfriends","tlmoon"].map(k=>{const m=/url\(["']?([^"')]+)/.exec(cs.getPropertyValue("--a-"+k));if(!m)return null;const im=new Image();im.src=m[1];im.decode&&im.decode().catch(()=>{});return im}).concat($$("img",park).map(x=>{x.decode&&x.decode().catch(()=>{});return x}));
  // and load every font the book uses before the first page is turned
  if(document.fonts)["400 20px 'Cinzel Decorative'","700 20px 'Cinzel Decorative'","600 20px 'Cinzel'","400 20px 'Pinyon Script'","italic 500 20px 'Cormorant Garamond'","500 20px 'Cormorant Garamond'","600 20px 'Cormorant Garamond'","700 20px 'Cormorant Garamond'"].forEach(f=>document.fonts.load(f,"Ačćđšž").catch(()=>{}));
  // pages are laid out once while hidden, so showing one for the first time costs nothing

diff --git a/src/styles/art.css b/src/styles/art.css
@@ -118,10 +118,11 @@
 --a-bchamp:url(../art/bchamp.webp);
 --a-bruby:url(../art/bruby.webp);
 --a-tlcard:url(../art/tlcard.webp);
---a-tlleather:url(../art/tlleather.webp);
 --a-tlwreath:url(../art/tlwreath.webp);
---a-tllib:url(../art/tllib.webp);
---a-tlparch:url(../art/tlparch.webp);
+--a-tlcovp:url(../art/tlcovp.webp);
+--a-tlbackp:url(../art/tlbackp.webp);
+--a-tlgarden:url(../art/tlgarden.webp);
+--a-tlflor:url(../art/tlflor.webp);
 --a-tlhill:url(../art/tlhill.webp);
 --a-tlcloth:url(../art/tlcloth.webp);
 --a-tlpaper:url(../art/tlpaper.webp);
